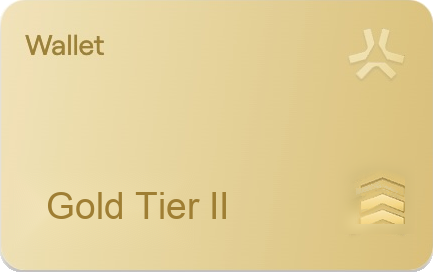
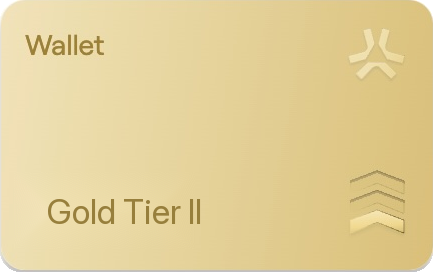
Refresh Omnia metadata and Abstract card

Changed region(s): [[0.0901, 0.7059, 0.5404, 0.8235], [0.8106, 0.6176, 0.9607, 0.8529], [0.8106, 0.7941, 0.8406, 0.8235]]

diff --git a/api/nfts.js b/api/nfts.js
@@ -731,13 +731,11 @@ export default async function handler(req, res) {
       ])
     );
     const openseaResponses = await Promise.allSettled(
-      requestedWallet
-        ? wallets.flatMap((wallet) => [
-          fetchOpenSeaAccountNfts(wallet, 'ethereum'),
-          fetchOpenSeaAccountNfts(wallet, 'matic'),
-          fetchOpenSeaAccountNfts(wallet, 'bitcoin'),
-        ])
-        : []
+      wallets.flatMap((wallet) => [
+        fetchOpenSeaAccountNfts(wallet, 'ethereum'),
+        fetchOpenSeaAccountNfts(wallet, 'matic'),
+        ...(requestedWallet ? [fetchOpenSeaAccountNfts(wallet, 'bitcoin')] : []),
+      ])
     );
 
     const blockscoutResponses = await Promise.allSettled(wallets.map(fetchBlockscoutNfts));

diff --git a/app.jsx b/app.jsx
@@ -22,7 +22,7 @@ import {
 } from './tweaks-panel.jsx';
 import './styles.css';
 
-const SITE_BUILD_VERSION = 'ecosystems-app-93';
+const SITE_BUILD_VERSION = 'ecosystems-app-94';
 const clamp = (value, min, max) => Math.min(max, Math.max(min, value));
 
 function safeStorage() {
@@ -732,8 +732,8 @@ function Hero({ y, mouse, intensity, lite = false }) {
           <div className="bt-kicker">welcome to</div>
           <div className="bt-title">THE IGLU</div>
           <div className="bt-sub">a small home on the internet · gerrystephen.eth</div>
-          <a className="abstract-veteran-card" href="https://abscan.org/address/0x382556A543aAd855C07678E7F8e820d0d90429BB" target="_blank" rel="noopener" aria-label="Abstract Gold II veteran wallet">
-            <img src="assets/abstract-gold-tier-card.png?v=gold-tier-ii-reference-notch" alt="Abstract wallet Gold Tier II" />
+          <a className="abstract-veteran-card" href="https://portal.abs.xyz/profile/0x382556A543aAd855C07678E7F8e820d0d90429BB" target="_blank" rel="noopener" aria-label="Abstract Gold II veteran wallet">
+            <img src="assets/abstract-gold-tier-card.png?v=gold-tier-ii-clean-chevron" alt="Abstract wallet Gold Tier II" />
           </a>
         </div>
 